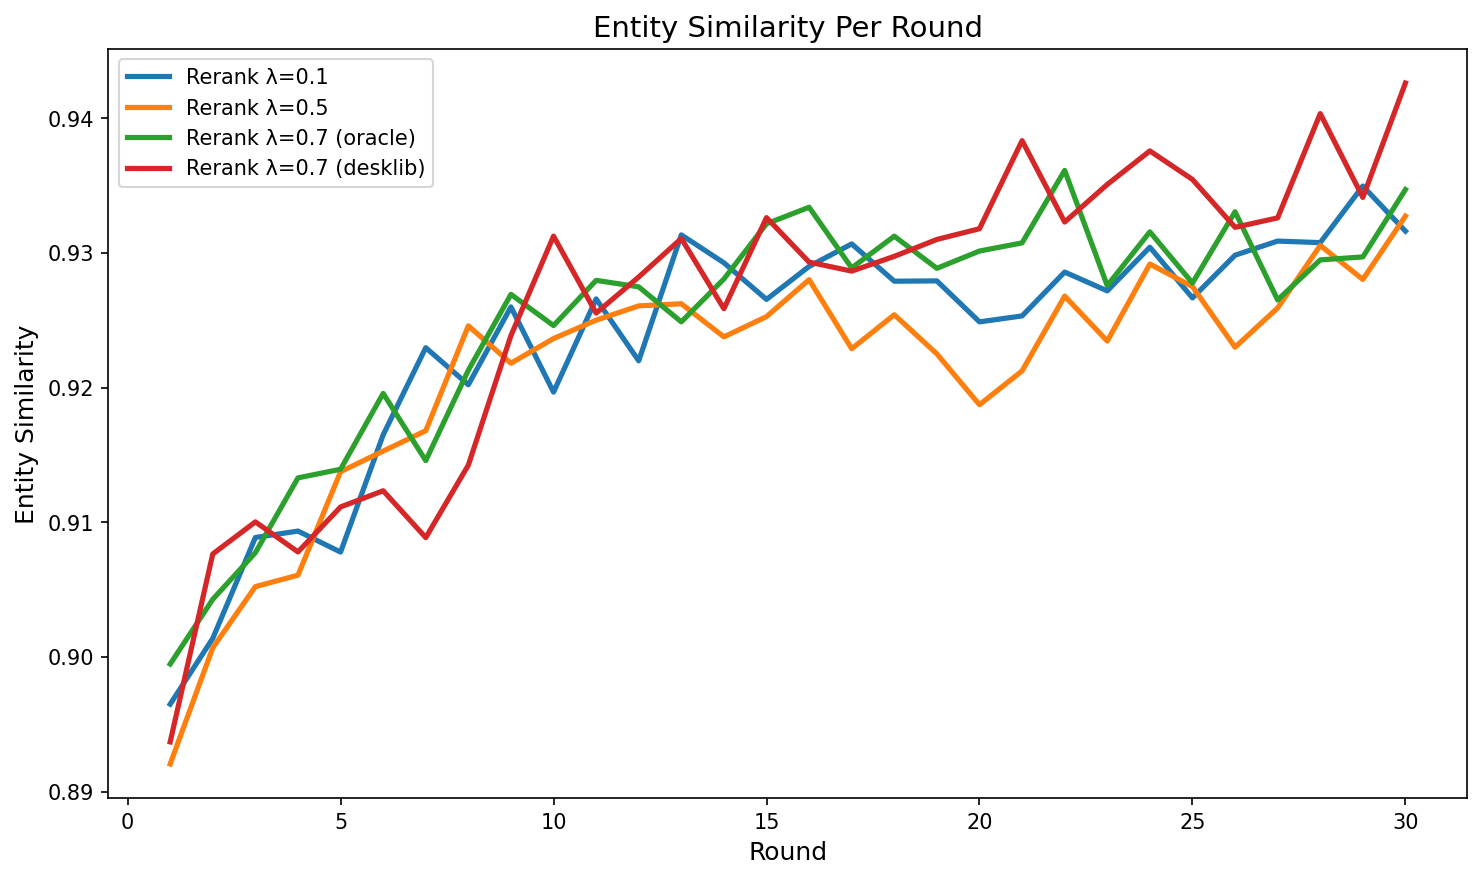
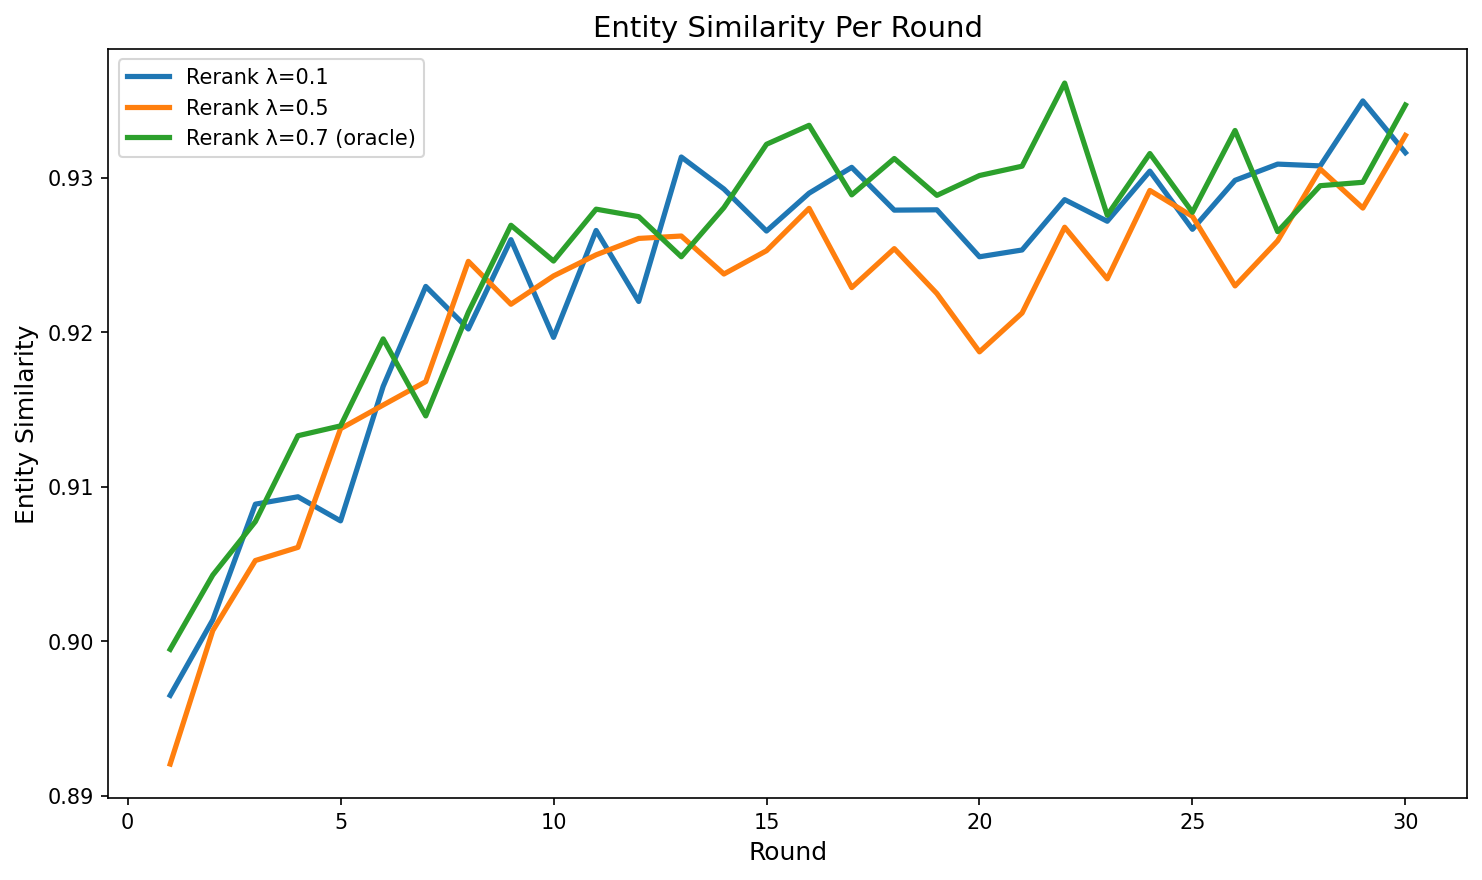
workshop entity viz: split Qwen rerank into full sweep + λ=0.7 focus
Keep the full λ-sweep panel (0.1/0.5/0.7 oracle) at Qwen/.../rerank/ and add a
separate λ=0.7 oracle-vs-desklib focus panel at Qwen/.../rerank_lambda0.7/
(mirrors the non-Qwen rerank panels). Still covers all 35 dump files.
44 PNGs across 15 groups; README updated.

diff --git a/workshop_entity_visualizations/README.md b/workshop_entity_visualizations/README.md
@@ -21,9 +21,11 @@ needs ≥2 simulations to compare.)
 - **agentic_rag** (Qwen2.5-14B) — Agentic RAG on its own → `Qwen/Qwen2.5-14B-Instruct/agentic_rag/`.
 - **rerun-paraphrase** — paraphrase Replace All / One / Search, for all four models (Qwen2.5-14B,
   Llama-3.1-8B, Mistral-7B, DeepSeek-R1-Distill-7B) → `<org>/<model>/rerun-paraphrase/`.
-- **rerank** — Qwen2.5-14B shows the full λ-sweep **plus both detectors** (λ = 0.1 / 0.5 / 0.7 oracle /
-  0.7 desklib). The appendix models (Llama-3.1-8B, Mistral-7B, DeepSeek-R1-Distill-7B) only have λ=0.7 in
-  the dump, so their panel compares the **oracle vs desklib** detector at λ=0.7 → `<org>/<model>/rerank/`.
+- **rerank** — Qwen2.5-14B has two panels: the full λ-sweep (λ = 0.1 / 0.5 / 0.7 oracle) →
+  `Qwen/Qwen2.5-14B-Instruct/rerank/`, and a **λ=0.7 oracle-vs-desklib** focus →
+  `Qwen/Qwen2.5-14B-Instruct/rerank_lambda0.7/`. The appendix models (Llama-3.1-8B, Mistral-7B,
+  DeepSeek-R1-Distill-7B) only have λ=0.7 in the dump, so their single rerank panel is the same
+  **oracle vs desklib** focus at λ=0.7 → `<org>/<model>/rerank/`.
 
 Metrics: `unique_entities_per_round` = unique mapped entities per round (union across the 10 runs,
 averaged across questions); `entity_similarity_per_round` = mean pairwise cosine similarity of binary
@@ -33,7 +35,7 @@ non-Qwen rerank panels use oracle `#2ca02c` vs desklib `#d62728`.
 
 ## File structure
 
-41 PNGs across 14 group folders covering **all 35 files** in the dump (the notebook's last cell asserts
+44 PNGs across 15 group folders covering **all 35 files** in the dump (the notebook's last cell asserts
 full coverage). Every group has `unique_entities_per_round.png` + `entity_similarity_per_round.png`;
 multi-simulation groups also have `collapse_by_simulation.png` (all except the single-variant
 `agentic_rag/`, which needs ≥2 simulations to compare):
@@ -45,7 +47,8 @@ workshop_entity_visualizations/
 │   ├── baseline/            unique_entities_per_round.png  entity_similarity_per_round.png  collapse_by_simulation.png
 │   ├── comparison/          unique_entities_per_round.png  entity_similarity_per_round.png  collapse_by_simulation.png
 │   ├── rerun-paraphrase/    unique_entities_per_round.png  entity_similarity_per_round.png  collapse_by_simulation.png
-│   ├── rerank/              unique_entities_per_round.png  entity_similarity_per_round.png  collapse_by_simulation.png   (λ=0.1/0.5/0.7 oracle + 0.7 desklib)
+│   ├── rerank/              unique_entities_per_round.png  entity_similarity_per_round.png  collapse_by_simulation.png   (full λ-sweep: 0.1/0.5/0.7 oracle)
+│   ├── rerank_lambda0.7/    unique_entities_per_round.png  entity_similarity_per_round.png  collapse_by_simulation.png   (oracle vs desklib @ λ=0.7)
 │   └── agentic_rag/         unique_entities_per_round.png  entity_similarity_per_round.png
 ├── meta-llama/Llama-3.1-8B-Instruct/
 │   ├── baseline/            unique_entities_per_round.png  entity_similarity_per_round.png  collapse_by_simulation.png
@@ -61,8 +64,8 @@ workshop_entity_visualizations/
     └── rerun-paraphrase/    unique_entities_per_round.png  entity_similarity_per_round.png  collapse_by_simulation.png
 ```
 
-Counts: 14 `unique_entities_per_round.png` + 14 `entity_similarity_per_round.png` +
-13 `collapse_by_simulation.png` (every group except `agentic_rag/`) = 41 PNGs.
+Counts: 15 `unique_entities_per_round.png` + 15 `entity_similarity_per_round.png` +
+14 `collapse_by_simulation.png` (every group except `agentic_rag/`) = 44 PNGs.
 
 ## Regenerating
 
